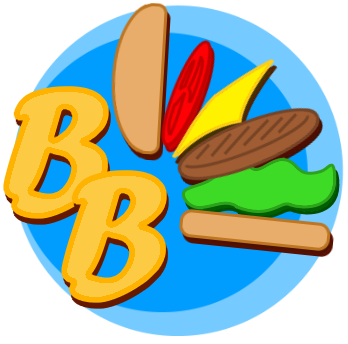
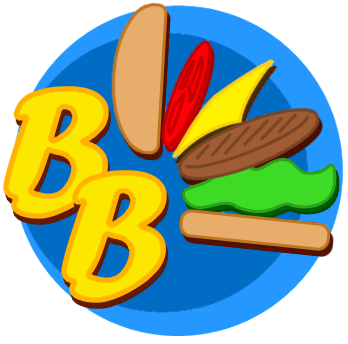
styled checkout page, removed extra step for ordering

diff --git a/burger-builder/src/Components/Burger/BuildControls/buildControls.css b/burger-builder/src/Components/Burger/BuildControls/buildControls.css
@@ -1,6 +1,10 @@
+@import url('https://fonts.googleapis.com/css?family=Poppins');
+
 .buildControls {
+    position: absolute;
+    bottom: 0;
     width: 100%;
-    background-color: #009dff;
+    background-color: #006cc4;
     display: flex;
     flex-flow: column;
     align-items: center;
@@ -17,21 +21,24 @@
 }
 
 .order {
-    background-color: transparent;
+    font-family: 'Poppins', sans-serif;
+    background: linear-gradient(165deg, #27b5ff 0%, #0094eb 49%, #007dcd 51%, #009dff 100%);
     cursor: pointer;
     color: white;
     font-size: 1.5em;
-    padding: 15px 30px;
-    border: 3px solid #fdcb43;
+    padding: 10px 20px;
+    border: 4px solid #0094eb;
     border-radius: 20px;
+    box-shadow: 0 0 2px 1px #003d63;
 }
 
 .order:hover, .order:active {
-    background-color: #75caff;
+    background: linear-gradient(165deg, #54c8ff 0%, #00a1ff 49%, #008fe1 51%, #25b0ff 100%);
+    border: 4px solid #00a1ff;
 }
 
 .order:disabled {
-    background-color: #ccc;
+    background: #b1b1b1;
     cursor: not-allowed;
     border: 3px solid #c7c6c6;
     color: #888888;

diff --git a/burger-builder/src/Containers/Checkout/contactInfo.css b/burger-builder/src/Containers/Checkout/contactInfo.css
@@ -2,10 +2,40 @@
     margin: 20px auto;
     width: 80%;
     text-align: center;
-    box-shadow: 0pc 3px 2px #cccccc;
-    border: 1px solid #eeeeee;
+    background-color: #ffb301;
+    border-radius: 40px;
+    box-shadow: 0 0 4px rgba(0, 0, 0, 0.4);
     padding: 10px;
     box-sizing: border-box;
+    color: white;
+}
+
+.order {
+    font-family: 'Poppins', sans-serif;
+    background: linear-gradient(165deg, #27b5ff 0%, #0094eb 49%, #007dcd 51%, #009dff 100%);
+    cursor: pointer;
+    color: white;
+    font-size: 1.5em;
+    padding: 5px 10px;
+    border: 4px solid #0094eb;
+    border-radius: 20px;
+    box-shadow: 0 0 2px 1px rgba(0, 0, 0, 0.4);
+}
+
+.order:hover, .order:active {
+    background: linear-gradient(165deg, #54c8ff 0%, #00a1ff 49%, #008fe1 51%, #25b0ff 100%);
+    border: 4px solid #00a1ff;
+}
+
+.order:disabled {
+    background: #b1b1b1;
+    cursor: not-allowed;
+    border: 3px solid #c7c6c6;
+    color: #888888;
+}
+
+.order:not(:disabled) {
+    animation: enable 0.3s linear;
 }
 
 @media (min-width: 600px) {

diff --git a/burger-builder/src/Containers/Checkout/ContactInfo.js b/burger-builder/src/Containers/Checkout/ContactInfo.js
@@ -2,7 +2,6 @@ import React, {useState} from "react";
 import axios from '../../axiosOrders';
 import {connect} from 'react-redux';
 import * as actions from '../../Store/Actions/index'
-import Button from '../../Components/UI/Button/Button';
 import Spinner from '../../Components/UI/Spinner/Spinner';
 import Input from '../../Components/UI/Input/Input';
 import withErrorHandler from '../../HOC/WithErrorHandler/WithErrorHandler'
@@ -133,13 +132,13 @@ const ContactInfo = props => {
             shouldValidate={formElement.config.validation} touched={formElement.config.touched}
             changed={(event) => receiveInput(event, formElement.id)}/>
       ))}
-      <Button btnType="success" disabled={!validity}>ORDER</Button>
+      <button className={classes.order} disabled={!validity}>Order</button>
     </form>
   );
   if (props.loading) form = <Spinner/>
   return (
     <div className={classes.contactInfo}>
-      <h4>Enter your contact info</h4>
+      <h3>Enter your contact info</h3>
       {form}
     </div>
   );

diff --git a/burger-builder/src/Containers/Checkout/Checkout.js b/burger-builder/src/Containers/Checkout/Checkout.js
@@ -1,18 +1,10 @@
 import React from "react";
-import {Route, Redirect} from 'react-router-dom';
+import {Redirect} from 'react-router-dom';
 import {connect} from 'react-redux';
 import ContactInfo from './ContactInfo';
 import CheckoutSummary from '../../Components/Order/CheckoutSummary';
 
 const Checkout = props => {
-
-  const continueCheckout = () => {
-    props.history.replace('/checkout/contact-info');
-  }
-
-  const cancelCheckout = () => {
-    props.history.goBack();
-  }
 
   let orderSummary = <Redirect to="/"/>;
 
@@ -21,9 +13,8 @@ const Checkout = props => {
     orderSummary = (
       <div>
         {purchasedRedirect}
-        <CheckoutSummary ingredients={props.ingredients} continueCheckout={continueCheckout}
-                         cancelCheckout={cancelCheckout}/>
-        <Route path={props.match.path + '/contact-info'} component={ContactInfo}/>
+        <CheckoutSummary ingredients={props.ingredients} />
+        <ContactInfo/>
       </div>
     );
   }

diff --git a/burger-builder/src/Components/Burger/BuildControls/buildControl.css b/burger-builder/src/Components/Burger/BuildControls/buildControl.css
@@ -3,7 +3,7 @@
     justify-content: space-between;
     align-items: center;
     margin: 5px 0px;
-    color: black;
+    color: white;
 }
 
 .buildControl button {
@@ -11,26 +11,27 @@
     font: inherit;
     padding: 5px;
     margin: 0px 5px;
+    border-radius: 5px;
     width: 80px;
     border: none;
-    border-radius: 6px;
     cursor: pointer;
     outline: none;
 }
 
 .buildControl button:disabled {
     background-color: #AC9980;
+    color: rgba(0, 0, 0, 0.6);
     cursor: default;
 }
 
 .buildControl button:hover:disabled {
     background-color: #AC9980;
+    color: rgba(0, 0, 0, 0.6);
     cursor: not-allowed;
 }
 
 .label {
     padding: 10px;
-    font-weight: bold;
     width: 80px;
 }
 
@@ -39,7 +40,7 @@
 }
 
 .buildControl .less {
-    background-color: #fdcb43;
+    background-color: #fce700;
 }
 
 .buildControl .less:hover, .buildControl .less:active, .buildControl .more:hover, .buildControl .more:active {

diff --git a/burger-builder/src/Components/Order/CheckoutSummary.js b/burger-builder/src/Components/Order/CheckoutSummary.js
@@ -1,16 +1,13 @@
 import React from 'react';
 import Burger from '../Burger/Burger';
-import Button from '../UI/Button/Button';
 import classes from './checkoutSummary.css';
 
 const checkoutSummary = props => {
   return (
     <div className={classes.checkout}>
-      <h1>We hope it tastes good!</h1>
+      <h1>Enjoy your burger!</h1>
       <div>
         <Burger ingredients={props.ingredients}/>
-        <Button btnType="success" clicked={props.continueCheckout}>CONTINUE</Button>
-        <Button btnType="danger" clicked={props.cancelCheckout}>CANCEL</Button>
       </div>
     </div>
   );

diff --git a/burger-builder/src/Components/UI/Input/input.css b/burger-builder/src/Components/UI/Input/input.css
@@ -12,8 +12,9 @@
 
 .inputElement {
     outline: none;
-    border: 1px solid #cccccc;
+    border: 2px solid #ffb301;
     background-color: white;
+    box-shadow: 0 0 3px #ae7016;
     font: inherit;
     padding: 6px 10px;
     display: block;
@@ -23,10 +24,10 @@
 
 .inputElement:focus {
     outline: none;
-    background-color: #eeeeee;
+    background-color: #fce700;
 }
 
 .invalid {
-    border: 1px solid red;
+    border: 2px solid red;
     background-color: #fda49a;
 }

diff --git a/burger-builder/src/Components/Order/checkoutSummary.css b/burger-builder/src/Components/Order/checkoutSummary.css
@@ -2,9 +2,10 @@
     text-align: center;
     width: 100%;
     margin: auto;
+    color: white;
 }
 
 .checkout > div {
-    width: 300px;
+    height: max-content;
     magin: auto;
 }

diff --git a/burger-builder/src/Components/Burger/burger.css b/burger-builder/src/Components/Burger/burger.css
@@ -2,7 +2,6 @@
     width: 100%;
     margin: auto;
     height: max-content;
-    min-height: 50vh;
     overflow: hidden;
     text-align: center;
     font-weight: bold;

diff --git a/burger-builder/src/index.css b/burger-builder/src/index.css
@@ -4,5 +4,5 @@ body {
     margin: 0;
     padding: 0;
     font-family: 'Oxygen', sans-serif;
-    background-color: #75caff;
+    background-color: #2598ff;
 }
